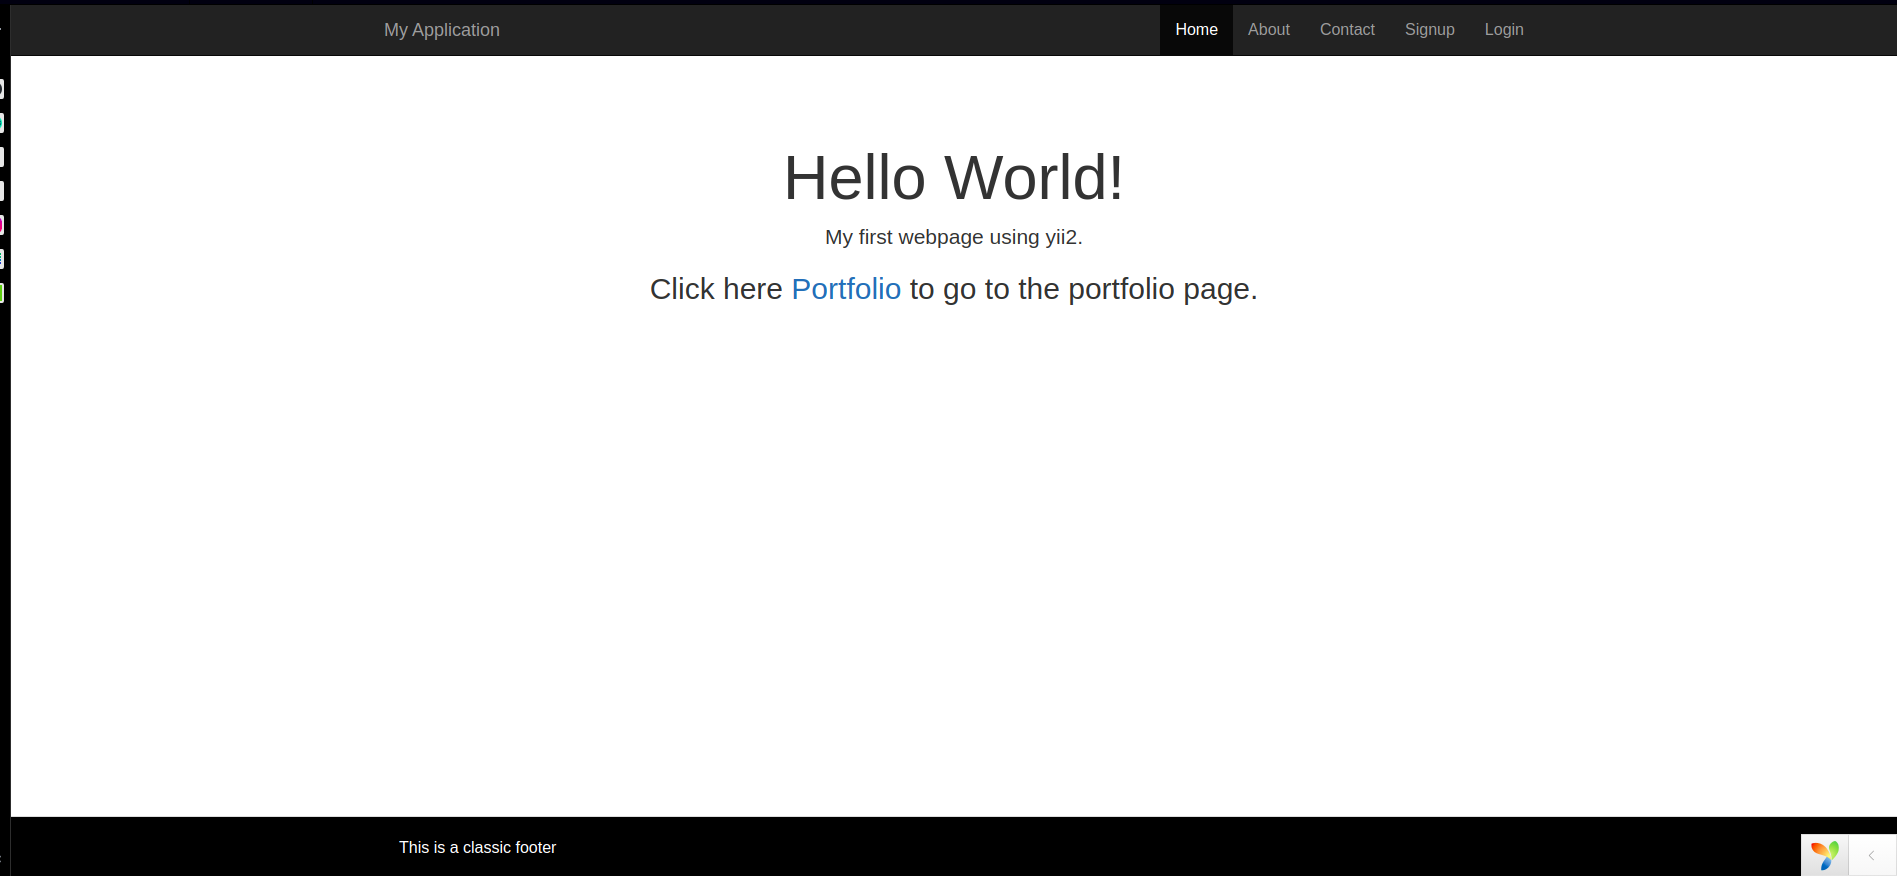
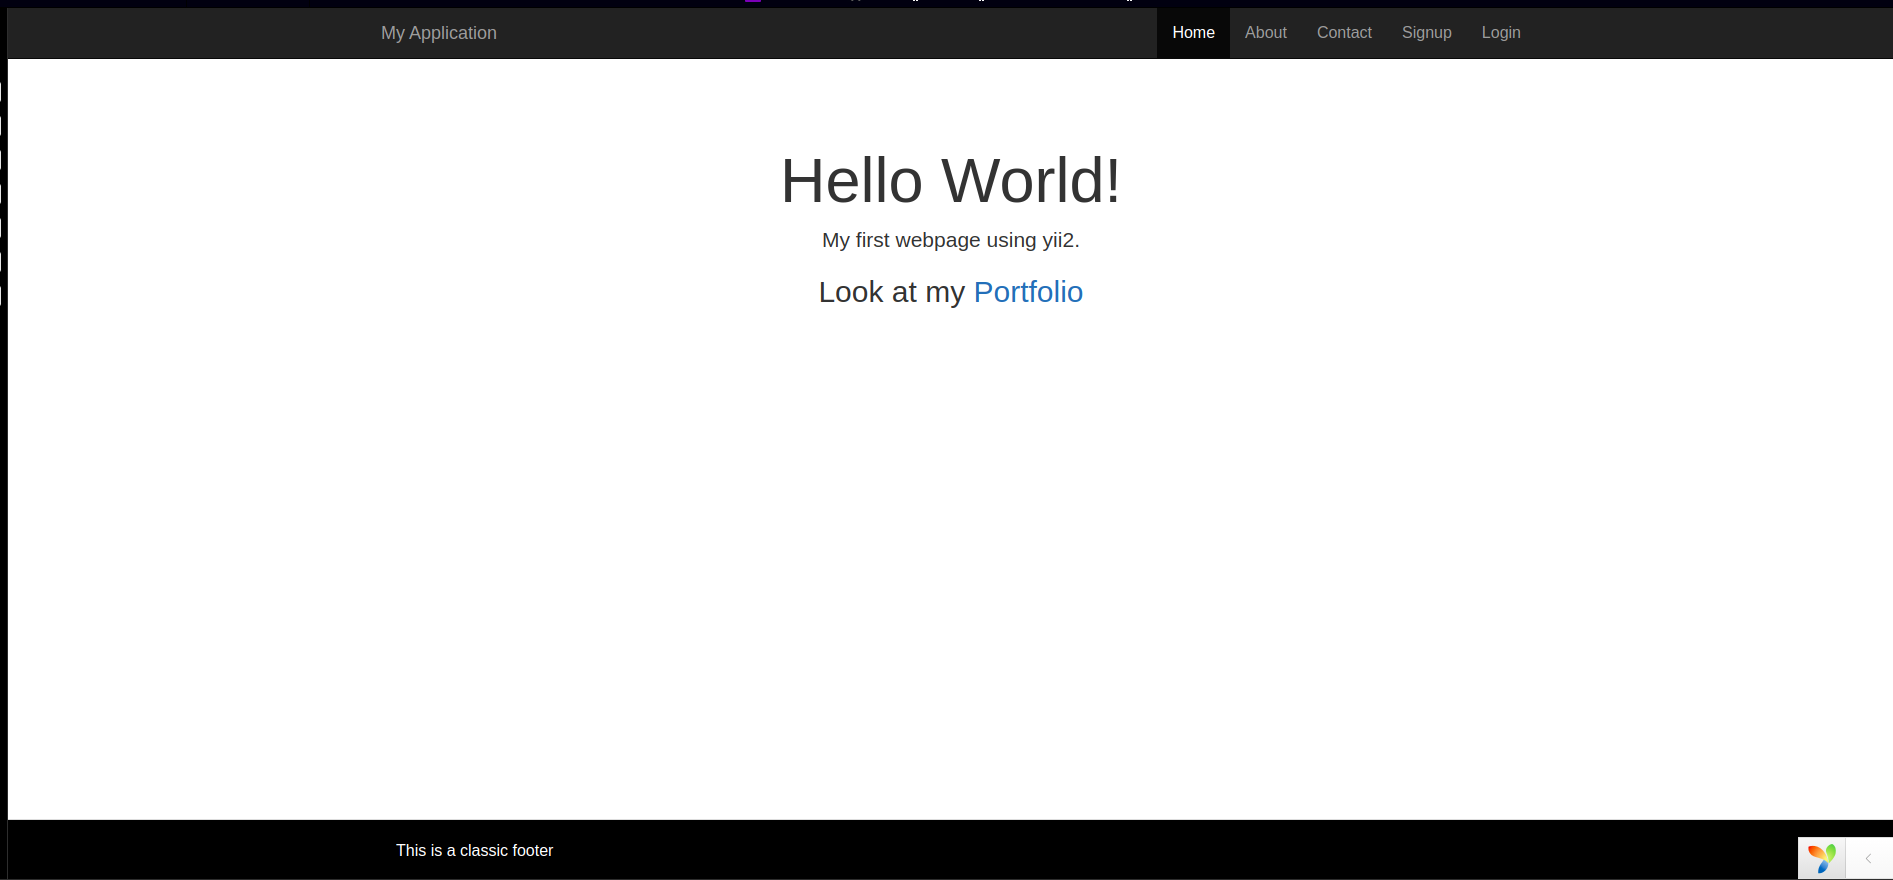
changing image

diff --git a/articles/php-yii2-framework/index.md b/articles/php-yii2-framework/index.md
@@ -161,19 +161,19 @@ Then register the styles above in `assets/AppAsset.php`.
 Now let us change the contents of our website. Replace the contents of `frontend/views/site/index.php` with the following code:
 
 ```PHP
-<?PHP
+<?php
 
 /* @var $this yii\web\View */
 
-$this->title = 'My Website';
+$this->title = 'My Yii Application';
 ?>
 <div class="site-index">
 
     <div class="jumbotron">
 
        <h1>Hello World!</h1>
-       <p>My first yii2 powered site.</p>
-       <h2>Click here <a href="<?= Yii::$app->urlManager->createUrl(['site/portfolio'])?>">Portfolio </a></h2> to go to portfolio page
+       <p>My first webpage using yii2.</p>
+       <h2>Look at my <a href="<?= Yii::$app->urlManager->createUrl(['site/portfolio'])?>">Portfolio<a> </h2>
     </div>
 </div>
 ```
@@ -187,17 +187,22 @@ The code above replaces the default homepage content with bootstrap jumbotron. W
 ### Adding a new page to our website
 To add a new page to our website, we need to create a view and an action. A view is the code that the user will see on the browser. Create a new file `frontend/views/site/portfolio.php` and put the following code:
 
-```html
-<!DOCTYPE html>
-<html>
-<head>
-    <title>Portfolio</title>
-</head>
-<body>
-     <h1 style="text-align: center">This is the portfolio page</h1>
-     
-</body>
-</html>
+```php
+<?php
+
+/* @var $this yii\web\View */
+
+$this->title = 'My Website';
+?>
+<div class="site-index">
+
+    <div class="jumbotron">
+
+       <h1>Hello World!</h1>
+       <p>My first yii2 powered site.</p>
+       <h2>This is my portfolio</a></h2>
+    </div>
+</div>
 ```
 For the above view code to work, we need to create an action. We will put Actions in controllers. 
 
@@ -224,11 +229,11 @@ class SiteController extends Controller
 
 }
 ```
-After creating the action and the view, you can access the new page by clicking on "Portfolio" on the main page.
+After creating the action and the view, you can access the new page by clicking on "Portfolio" link on the main page.
 
 You should have a page like the one below;
 ![web display](1.png)
-### conclusion
+### Conclusion
 Congratulations! Now you have a better understanding of the basics of the Yii 2 framework.
 Yii 2 pushes you to create a securable and testable site by doing a lot of the heavy lifting for you.
 I encourage you to use Yii 2 in your next project.
